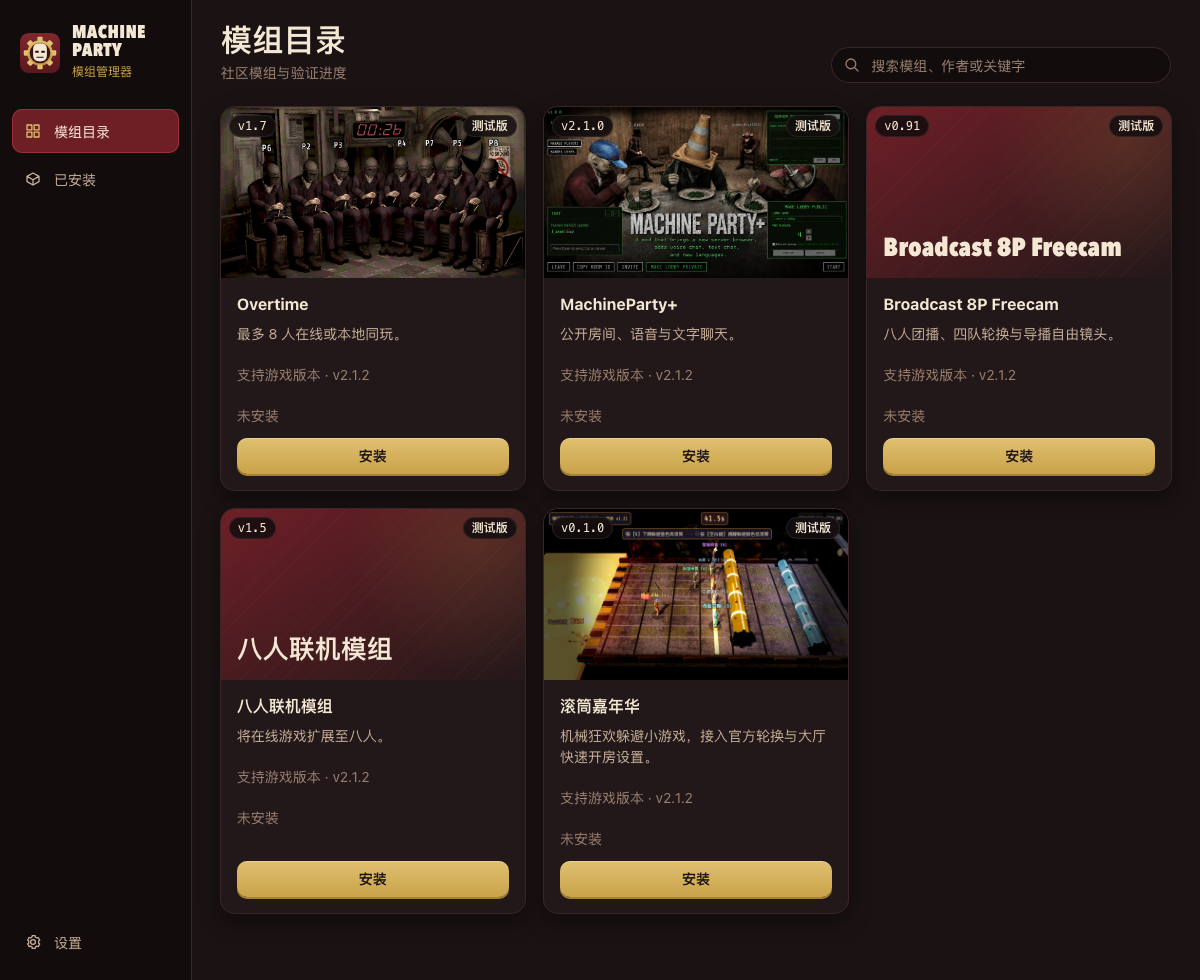
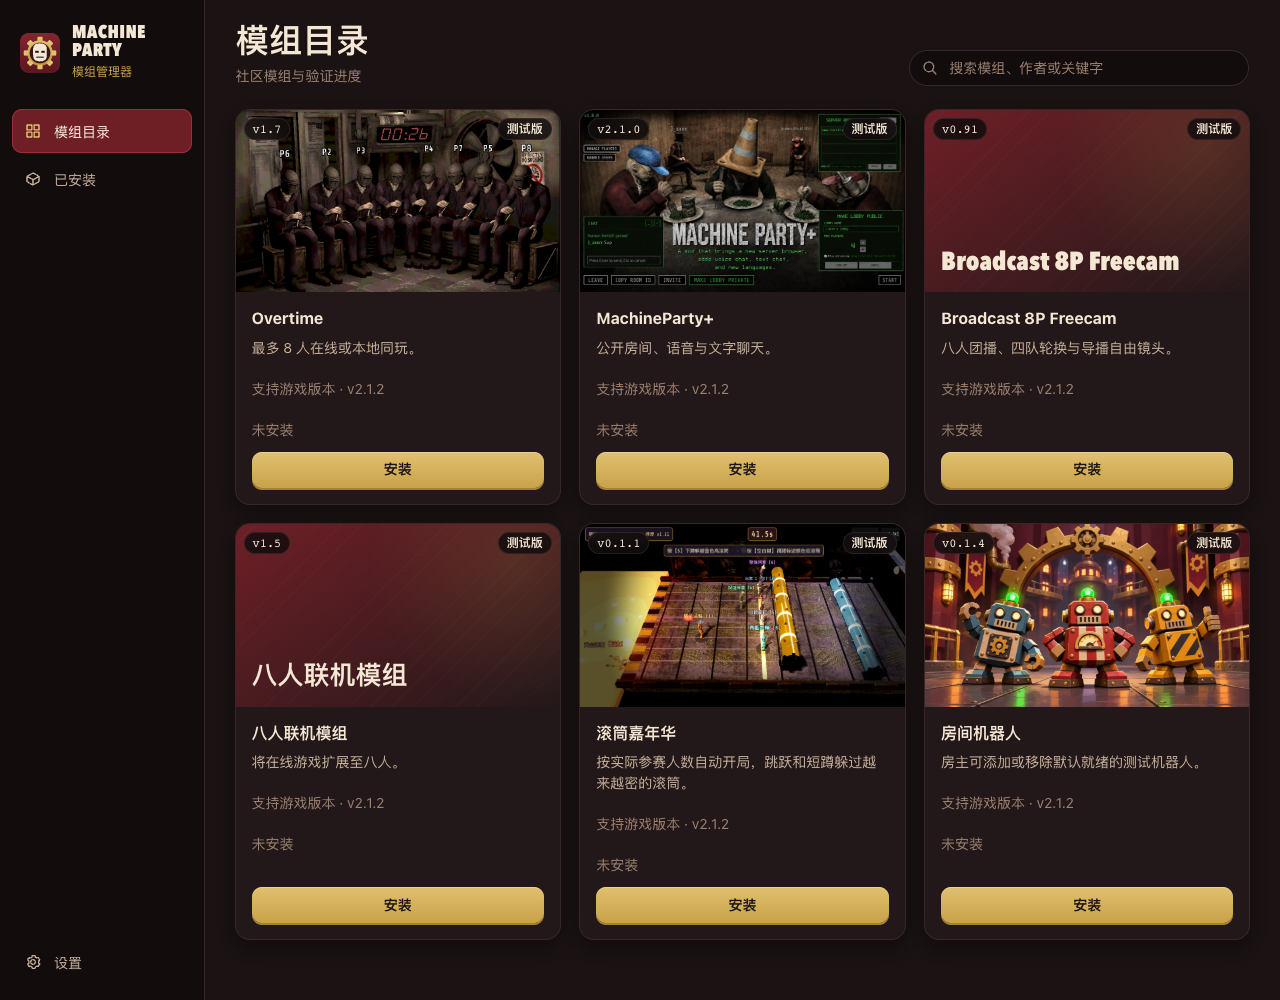
Verify older loader uninstalls and refresh localized preview screenshots

diff --git a/apps/desktop/src-tauri/src/installer.rs b/apps/desktop/src-tauri/src/installer.rs
@@ -1712,9 +1712,12 @@ pub fn uninstall_mod(
 
     let tx = get_transaction(config_dir, game_root, &mod_entry.id)?
         .ok_or_else(|| "missingTransaction".to_string())?;
-    if tx.pck_dir != pck_dir
+    // Loader uninstall uses the installed transaction's fingerprints across catalog updates.
+    let recorded_loader = tx.exclusive == "loader" && adapter.kind == "loader-files";
+    if tx.mod_id != mod_entry.id
+        || tx.pck_dir != pck_dir
         || tx.backup_dir != backup_dir_for(config_dir, game_root, &mod_entry.id)
-        || tx.version != mod_entry.version.as_deref().unwrap_or_default()
+        || (!recorded_loader && tx.version != mod_entry.version.as_deref().unwrap_or_default())
         || tx.repo != mod_entry.repo
     {
         return Err("gameUpdatedOrModified".into());
@@ -4590,8 +4593,17 @@ print("Patched")
 
         uninstall_mod(&config_dir, &game_root, &overtime, &runner, &UnlockedCheck).unwrap();
         uninstall_mod(&config_dir, &game_root, &plus, &runner, &UnlockedCheck).unwrap();
-        let restored =
-            uninstall_mod(&config_dir, &game_root, &roller, &runner, &UnlockedCheck).unwrap();
+        let current_roller = crate::catalog::entry("roller-carnival").unwrap();
+        assert_eq!(roller.version.as_deref(), Some("v0.1.0"));
+        assert_ne!(current_roller.version, roller.version);
+        let restored = uninstall_mod(
+            &config_dir,
+            &game_root,
+            &current_roller,
+            &runner,
+            &UnlockedCheck,
+        )
+        .unwrap();
         assert_eq!(restored, baseline);
         assert!(pck_loader::read_managed_marker(&pck_dir).unwrap().is_none());
 

diff --git a/docs/en/architecture/ADR-011-prepare-mpml.md b/docs/en/architecture/ADR-011-prepare-mpml.md
@@ -4,6 +4,8 @@
 
 The one-click installer verifies the original release ZIP against its catalog size and SHA-256. Rust prepares the MPML directory in staging. Overtime uses its CLI payload manifest and retains the upstream load-order, version and vanilla-script checks. Broadcast and Binary1936 use their resource trees. MachineParty+, Roller Carnival and Lobby Bots already ship in loader format.
 
+Binary1936 and Broadcast share the resource-tree converter in `src/installer/prepare.rs` and the MPML entry template in `assets/recipes/resource_tree.gd` under `apps/desktop/src-tauri/`. For Binary1936 v1.5 it packages 40 scripts and 16 scenes in `overlay.zip`, writes their remaps, and generates `main.gd` with the catalog mod ID.
+
 The installer records the source digest, recipe revision and installed file fingerprints. The three eight-player conversions share an exclusive gameplay group. Other loader mods can stay installed when a group member changes. A separate converted download would add a second release artifact to maintain; executing each upstream installer would keep different backup and recovery procedures.
 
 Older clients receive their compatible catalog and download URLs. Existing Overtime MPML installations keep working. Select the migration action in the details of a managed legacy PCK patch to verify the replacement, restore the recorded copy, and install through the loader. Move a manual mods/broadcast-8p folder out of the game first. Unknown file changes stop recovery.

diff --git a/docs/zh-CN/architecture/ADR-011-prepare-mpml.md b/docs/zh-CN/architecture/ADR-011-prepare-mpml.md
@@ -4,6 +4,8 @@
 
 一键安装先用目录大小和 SHA-256 核对作者发布的 ZIP，再由 Rust 在暂存区准备 MPML 目录。Overtime 读取 CLI 包中的 payload 清单，保留上游的加载时序、版本与原版脚本指纹检查。Broadcast 和 Binary1936 读取资源树。MachineParty+、滚筒嘉年华与房间机器人已采用加载器格式。
 
+Binary1936 和 Broadcast 共用 `apps/desktop/src-tauri/` 下的资源目录转换器 `src/installer/prepare.rs` 和 MPML 入口模板 `assets/recipes/resource_tree.gd`。转换 Binary1936 v1.5 时，管理器将 40 个脚本、16 个场景及其映射打入 `overlay.zip`，并用目录中的模组 ID 生成 `main.gd`。
+
 安装事务记录来源指纹、转换规则版本与已安装文件指纹。三款八人玩法属于同一互斥组，切换时可保留其他加载器模组。单独分发转换包需要维护第二份发布产物，执行各上游安装器则需维护多套备份与还原程序。
 
 旧版客户端仍可使用兼容目录与下载地址。已有的 Overtime MPML 安装可以继续使用。旧式受管 PCK 补丁可在模组详情选择「切换到加载器安装」，先验证新包，再还原已记录的副本并安装。手动安装的 mods/broadcast-8p 须先移出游戏目录。遇到未知文件变更时，还原会停止。

diff --git a/docs/zh-TW/architecture/ADR-011-prepare-mpml.md b/docs/zh-TW/architecture/ADR-011-prepare-mpml.md
@@ -4,6 +4,8 @@
 
 一鍵安裝先以目錄大小與 SHA-256 核對作者發行 ZIP，再由 Rust 在暫存區準備 MPML 目錄。Overtime 讀取 CLI 包中的 payload 清單，保留上游的載入時序、版本與原版腳本指紋檢查。Broadcast 和 Binary1936 讀取資源樹。MachineParty+、滾筒嘉年華與房間機器人已採載入器格式。
 
+Binary1936 和 Broadcast 共用 `apps/desktop/src-tauri/` 下的資源目錄轉換器 `src/installer/prepare.rs` 和 MPML 入口範本 `assets/recipes/resource_tree.gd`。轉換 Binary1936 v1.5 時，管理器將 40 個腳本、16 個場景及其映射打入 `overlay.zip`，並用目錄中的模組 ID 產生 `main.gd`。
+
 安裝交易記錄來源指紋、轉換規則版本與已安裝檔案指紋。三款八人玩法屬同一互斥群組，切換時可保留其他載入器模組。另行分發轉換包需要維護第二份發行產物，執行各上游安裝器則需維護多套備份與還原程序。
 
 舊版客戶端仍可使用相容目錄與下載網址。既有 Overtime MPML 安裝可繼續使用。舊式受管 PCK 補丁可在模組詳情選擇「切換為載入器安裝」，先驗證新包，再還原已記錄的副本並安裝。手動安裝的 mods/broadcast-8p 須先移出遊戲目錄。檔案出現未知變更時，還原會停止。

diff --git a/README.md b/README.md
@@ -27,10 +27,10 @@ Browse hand-curated mods for [Machine Party](https://store.steampowered.com/app/
 </div>
 
 <p align="center">
-  <img src="docs/images/screenshot-catalog.png" width="100%" alt="Machine Party Mod Manager catalog view showing five v2.1.2 preview entries">
+  <img src="docs/images/screenshot-catalog.png" width="100%" alt="Machine Party Mod Manager catalog view showing six v2.1.2 preview entries">
 </p>
 
-<p align="center"><sub>Desktop catalog UI displaying all five <code>v2.1.2</code> Windows preview entries.</sub></p>
+<p align="center"><sub>Desktop catalog UI displaying all six <code>v2.1.2</code> Windows preview entries.</sub></p>
 
 ## At a glance
 
@@ -65,6 +65,8 @@ On Windows, run the NSIS installer. On Apple Silicon Mac, extract the archive an
 | Settings | In-app update prompt |
 | --- | --- |
 | ![Settings](docs/images/screenshot-settings.png) | ![In-app update prompt](docs/images/screenshot-update.png) |
+
+The update prompt illustrates a simulated upgrade from 0.1.2-6 to 0.1.2-7.
 
 ## Catalogued mods
 

diff --git a/docs/readme/README.zh-CN.md b/docs/readme/README.zh-CN.md
@@ -27,10 +27,10 @@
 </div>
 
 <p align="center">
-  <img src="../images/screenshot-catalog.zh-CN.png" width="100%" alt="Machine Party 模组管理器目录界面，展示五个 v2.1.2 测试版条目">
+  <img src="../images/screenshot-catalog.zh-CN.png" width="100%" alt="Machine Party 模组管理器目录界面，展示六个 v2.1.2 测试版条目">
 </p>
 
-<p align="center"><sub>桌面端目录界面，展示全部五个 <code>v2.1.2</code> Windows 测试版条目。</sub></p>
+<p align="center"><sub>桌面端目录界面，展示全部六个 <code>v2.1.2</code> Windows 测试版条目。</sub></p>
 
 ## 一目了然
 
@@ -65,6 +65,8 @@ Windows 下载后运行 NSIS 安装程序即可；Apple Silicon Mac 解压归档
 | 设置页 | 应用内更新提示 |
 | --- | --- |
 | ![设置页](../images/screenshot-settings.zh-CN.png) | ![应用内更新提示](../images/screenshot-update.zh-CN.png) |
+
+更新提示截图演示从 0.1.2-6 到 0.1.2-7 的模拟升级。
 
 ## 已收录模组
 

diff --git a/docs/readme/README.zh-TW.md b/docs/readme/README.zh-TW.md
@@ -27,10 +27,10 @@
 </div>
 
 <p align="center">
-  <img src="../images/screenshot-catalog.zh-TW.png" width="100%" alt="Machine Party 模組管理器目錄介面，顯示五個 v2.1.2 測試版條目">
+  <img src="../images/screenshot-catalog.zh-TW.png" width="100%" alt="Machine Party 模組管理器目錄介面，顯示六個 v2.1.2 測試版條目">
 </p>
 
-<p align="center"><sub>桌面端目錄介面，顯示全部五個 <code>v2.1.2</code> Windows 測試版條目。</sub></p>
+<p align="center"><sub>桌面端目錄介面，顯示全部六個 <code>v2.1.2</code> Windows 測試版條目。</sub></p>
 
 ## 一目了然
 
@@ -65,6 +65,8 @@ Windows 下載後執行 NSIS 安裝程式即可；Apple Silicon Mac 解壓封存
 | 設定頁 | 應用內更新提示 |
 | --- | --- |
 | ![設定頁](../images/screenshot-settings.zh-TW.png) | ![應用內更新提示](../images/screenshot-update.zh-TW.png) |
+
+更新提示截圖示範從 0.1.2-6 到 0.1.2-7 的模擬升級。
 
 ## 已收錄模組
 
